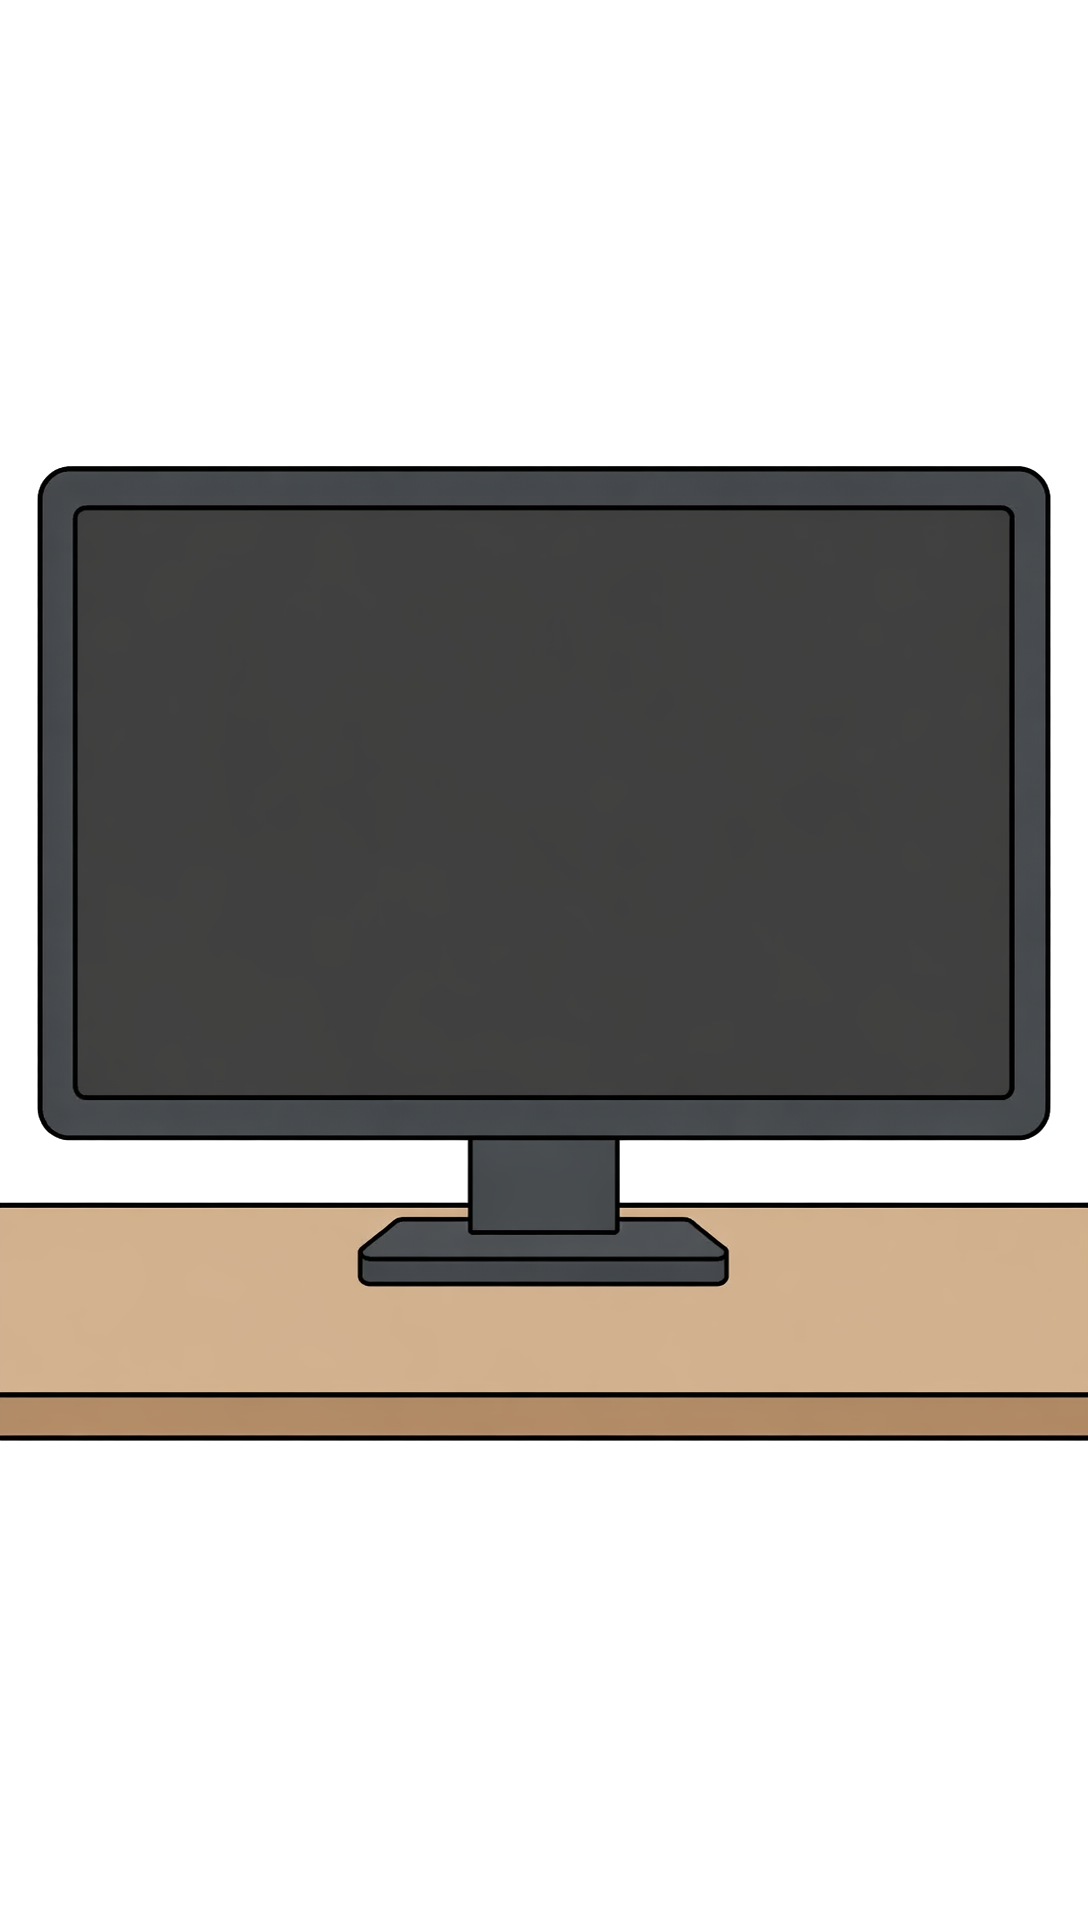
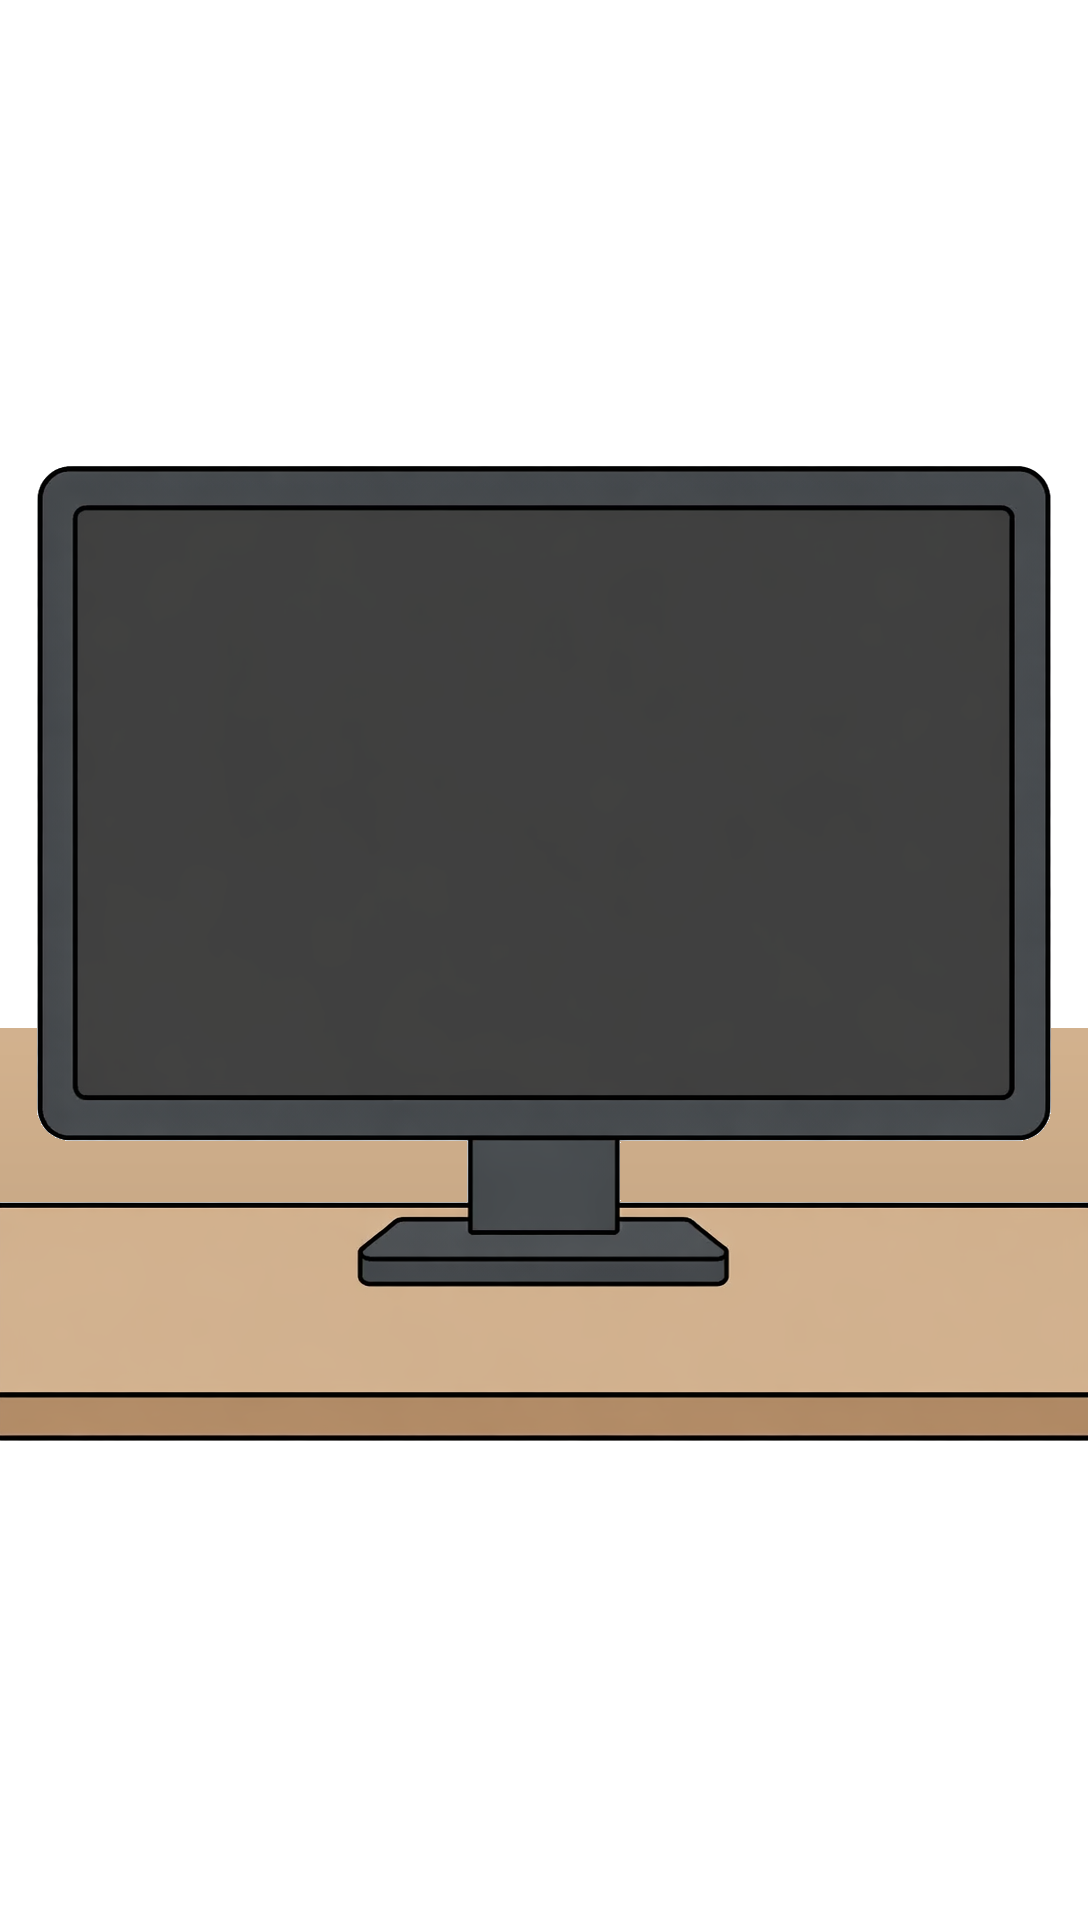
fix(hud+image): 4个主游戏页问题修复
2. 认可度条进度不变/只显示两段 — 改用独立子 Graphics 节点 HudBarFill
   每帧 clear+redraw 灰色蒙层（不污染静态底色），加三角游标标当前值
3. 倒计时白字太小 — fontSize 24→28，宽度 26%→30%，粗体纯白
4. 主标题没有展示 — levelLabel fontSize 28→30（紧凑模式 20），
   强制 active=true，颜色加深到 45,38,32

5. 桌子太窄键盘出界 — 新建 scripts/fix-bg-desk.py
   用 PIL 检测桌子色带 (RGB 210,177,141) 并向上延伸 180px
   加 26px 阴影渐变让桌面前沿过渡自然
   检测脚本只填原透明区域，保留显示器边框

Changed region(s): [[0.5625, 0.5312, 1.0, 0.625], [0.0, 0.5312, 0.4375, 0.625]]

diff --git a/assets/scripts/cocos/GameRunner.ts b/assets/scripts/cocos/GameRunner.ts
@@ -1891,19 +1891,27 @@ export class GameRunner extends Component {
       this.layoutHudLabel(this.levelLabel, 0, mainTitleY, Math.min(visSize.width * 0.72, 520), 36, 28);
       this.layoutSubtitle(visSize.width, screenTopY + Math.max(16, visSize.height * 0.02));
     }
-    if (this.levelLabel) { this.levelLabel.color = new Color(55, 48, 42, 255); this.levelLabel.isBold = true; }
+    if (this.levelLabel) {
+      this.levelLabel.color = new Color(45, 38, 32, 255);
+      this.levelLabel.isBold = true;
+      this.levelLabel.node.active = true;
+      this.levelLabel.fontSize = this.compactHeader ? 20 : 30;
+      this.levelLabel.lineHeight = (this.compactHeader ? 20 : 30) + 8;
+    }
     this.drawMonitorFrame(screenTopY, screenBottomY, screenWidthPx, visSize.width);
     // 认可度/分区信息已收敛到下方仪表盘面板；隐藏旧版浮动 Label
     if (this.approvalLabel) this.approvalLabel.node.active = false;
     if (this.zoneLabel) this.zoneLabel.node.active = false;
-    // 计时器移到标题栏右侧，字号比标题略小但足够清晰
+    // 计时器移到标题栏右侧，字号比标题略大加粗，亮白色
     if (this.timerLabel) {
       const timerX = Math.min(visSize.width * 0.38, screenWidthPx * 0.40);
       const timerY = this.compactHeader
         ? screenTopY + Math.max(13, Math.min(28, Math.max(13, headerGap * 0.5)))
         : screenTopY + Math.max(42, visSize.height * 0.05);
-      this.layoutHudLabel(this.timerLabel, timerX, timerY, screenWidthPx * 0.26, 40, 24);
+      this.layoutHudLabel(this.timerLabel, timerX, timerY, screenWidthPx * 0.30, 44, 28);
       this.timerLabel.node.active = true;
+      this.timerLabel.color = new Color(255, 252, 240, 255);
+      this.timerLabel.isBold = true;
     }
 
     // Belt（传送带卡槽）放在标题和状态行之间，卡牌始终限制在显示器内。
@@ -2020,6 +2028,12 @@ export class GameRunner extends Component {
     this.subtitleNode.active = this.uiState === 'playing';
   }
 
+  /** 仪表盘专用动态覆盖图层（每帧重绘，状态层不动底图） */
+  private hudBarFillNode: Node | null = null;
+  private hudScaleMarkNode: Node | null = null;
+  /** 文字动态覆盖层（每帧重绘：值、分区、事件） */
+  private hudTextLayer: Node | null = null;
+
   /** 统一仪表盘面板：认可度值 + 分区 + 四段色条 + 事件日志，单一圆角面板。 */
   private layoutLowerHud(viewWidth: number, viewHeight: number): void {
     if (!this.lowerHudNode) {
@@ -2028,14 +2042,32 @@ export class GameRunner extends Component {
       node.parent = this.node;
       node.addComponent(UITransform);
       node.addComponent(Graphics);
-      const value = this.makeHudLabel(node, 'ApprovalValue', '认可度 43', 26, new Color(38, 34, 30, 255));
+
+      // 静态层：面板纸底 + 四段色条
+      const value = this.makeHudLabel(node, 'ApprovalValue', '', 28, new Color(38, 34, 30, 255));
       value.isBold = true;
-      const zone = this.makeHudLabel(node, 'Zone', '危险!', 20, new Color(220, 60, 60, 255));
+      const zone = this.makeHudLabel(node, 'Zone', '', 22, new Color(220, 60, 60, 255));
       zone.isBold = true;
       const evt = this.makeHudLabel(node, 'Event', '', 15, new Color(72, 62, 54, 255));
       evt.overflow = Label.Overflow.CLAMP;
       this.makeHudLabel(node, 'Scale', '猎杀          良好          勉强          危险', 12, new Color(110, 100, 90, 255));
       this.lowerHudNode = node;
+
+      // 动态层：单独的 Graphics 子节点，每帧 clear+redraw，不会污染静态底图
+      const fill = new Node('HudBarFill');
+      fill.layer = 1 << 25;
+      fill.parent = node;
+      fill.addComponent(UITransform);
+      fill.addComponent(Graphics);
+      this.hudBarFillNode = fill;
+
+      // 刻度游标：当前值小三角
+      const mark = new Node('HudScaleMark');
+      mark.layer = 1 << 25;
+      mark.parent = node;
+      mark.addComponent(UITransform);
+      mark.addComponent(Graphics);
+      this.hudScaleMarkNode = mark;
     }
 
     const btnY = this.propButtons?.position.y ?? -viewHeight / 2 + 150;
@@ -2095,6 +2127,16 @@ export class GameRunner extends Component {
     this.placeHudLabel(node, 'Scale', 0, barCY - barH / 2 - 12, barW, 20);
     this.placeHudLabel(node, 'Event', 0, -panelH / 2 + padBot + eventH / 2, panelW - 28, eventH);
 
+    // 动态覆盖层：与面板同坐标系，铺满整面板
+    if (this.hudBarFillNode) {
+      this.hudBarFillNode.getComponent(UITransform)!.setContentSize(panelW, panelH);
+      this.hudBarFillNode.setPosition(0, 0, 0);
+    }
+    if (this.hudScaleMarkNode) {
+      this.hudScaleMarkNode.getComponent(UITransform)!.setContentSize(panelW, panelH);
+      this.hudScaleMarkNode.setPosition(0, 0, 0);
+    }
+
     node.active = this.uiState === 'playing';
   }
 
@@ -2134,18 +2176,33 @@ export class GameRunner extends Component {
       label.color = zoneColor[zone] ?? new Color(45, 40, 35);
     }
 
-    // 动态覆盖进度条：approved 部分透明看到底色，未到部分蒙半透明灰色
-    const g = this.lowerHudNode.getComponent(Graphics);
-    if (!g || this.hudBarW <= 0) return;
+    // 动态覆盖图层：每帧 clear 后重绘，不会污染静态四段底色
+    if (!this.hudBarFillNode || this.hudBarW <= 0) return;
+    const fillG = this.hudBarFillNode.getComponent(Graphics);
+    if (!fillG) return;
     const bw = this.hudBarW;
     const bh = this.hudBarH;
     const bcy = this.hudBarCY;
     const pct = Math.max(0, Math.min(1, approval / 100));
-    const fillEnd = -bw / 2 + bw * pct;
-    // 蒙住右侧未覆盖区域
-    g.fillColor = new Color(50, 46, 40, 160);
-    g.rect(fillEnd, bcy - bh / 2 + 4, bw * (1 - pct) - 4, bh - 8);
-    g.fill();
+    fillG.clear();
+    // 已达标部分：蒙半透明黑色 = 让四段分区色变暗，提示"未达"
+    fillG.fillColor = new Color(40, 36, 32, 175);
+    fillG.rect(-bw / 2 + bw * pct, bcy - bh / 2 + 4, bw * (1 - pct) - 4, bh - 8);
+    fillG.fill();
+    // 当前值小三角游标
+    if (this.hudScaleMarkNode) {
+      const markG = this.hudScaleMarkNode.getComponent(Graphics);
+      if (markG) {
+        markG.clear();
+        const x = -bw / 2 + bw * pct;
+        markG.fillColor = new Color(30, 26, 22, 255);
+        markG.moveTo(x, bcy + bh / 2 + 2);
+        markG.lineTo(x - 7, bcy + bh / 2 + 14);
+        markG.lineTo(x + 7, bcy + bh / 2 + 14);
+        markG.close();
+        markG.fill();
+      }
+    }
   }
 
   /** 把 Belt 下的 6 个卡槽横向等距重新排布到指定区域内（居中）。 */

diff --git a/scripts/fix-bg-desk.py b/scripts/fix-bg-desk.py
@@ -1,0 +1,76 @@
+"""
+修复 bg-office.png：把桌子向上延伸，让 AI 同事角色坐在桌面上。
+- 检测当前桌子带的 Y 范围与颜色
+- 把桌子色带向上延伸 ~180px，并加一条暗色桌面前沿让过渡自然
+- 保持透明 alpha 不变
+"""
+from PIL import Image
+import sys
+
+SRC = "assets/resources/art/bg/bg-office.png"
+DST = "assets/resources/art/bg/bg-office.png"
+EXTEND_PX = 180  # 向上延伸像素数
+
+
+def main() -> None:
+    im = Image.open(SRC).convert("RGBA")
+    pixels = im.load()
+    w, h = im.size
+    # 找到桌子带的范围（采样 x = 200 远离中心避免命中显示器/桌面上的图标）
+    sample_x = 200
+    desk_top = None
+    desk_bottom = None
+    for y in range(h):
+        r, g, b, a = pixels[sample_x, y]
+        if a > 200 and 180 < r < 230 and 150 < g < 200 and 120 < b < 170:
+            if desk_top is None:
+                desk_top = y
+            desk_bottom = y
+    if desk_top is None:
+        print("ERROR: cannot find desk band", file=sys.stderr)
+        sys.exit(1)
+    print(f"detected desk: y={desk_top}..{desk_bottom} "
+          f"(h={desk_bottom - desk_top + 1}px)")
+
+    # 桌子主色（取 desk_top+5 行 sample_x 列）
+    main_r, main_g, main_b, _ = pixels[sample_x, desk_top + 5]
+    print(f"desk main color: ({main_r}, {main_g}, {main_b})")
+
+    # 桌子前沿色（更暗的桌沿）：取 desk_bottom 行（更深的棕）
+    front_r, front_g, front_b, _ = pixels[sample_x, desk_bottom - 3]
+    print(f"desk front color: ({front_r}, {front_g}, {front_b})")
+
+    new_top = max(0, desk_top - EXTEND_PX)
+    print(f"extending desk upward: {desk_top} -> {new_top} (+{desk_top - new_top}px)")
+
+    # 逐行填色：从 new_top 到 desk_top-1
+    # 用 desk_top+5 的主色填充；在 new_top..new_top+24 上用略深色作为桌面前沿阴影
+    shadow_h = 26
+    for y in range(new_top, desk_top):
+        # 阴影区
+        if y - new_top < shadow_h:
+            t = (y - new_top) / shadow_h  # 0..1
+            r = int(front_r * (1 - t) + main_r * t)
+            g = int(front_g * (1 - t) + main_g * t)
+            b = int(front_b * (1 - t) + main_b * t)
+        else:
+            # 上方主体用 main color，向 desk_top 略微变深模拟厚度
+            depth = (y - (new_top + shadow_h)) / max(1, desk_top - (new_top + shadow_h))
+            r = int(main_r * (1 - depth * 0.04))
+            g = int(main_g * (1 - depth * 0.04))
+            b = int(main_b * (1 - depth * 0.04))
+        # 只填充原来是透明的区域（保留显示器/其他元素）
+        for x in range(w):
+            pr, pg, pb, pa = pixels[x, y]
+            if pa < 50:  # 原透明 → 填桌子色
+                pixels[x, y] = (r, g, b, 255)
+            elif pa > 200 and 50 < pr < 90 and 50 < pg < 90 and 50 < pb < 95:
+                # 原来就是显示器边框灰色 → 不动
+                pass
+
+    im.save(DST, "PNG", optimize=True)
+    print(f"saved {DST} ({w}x{h})")
+
+
+if __name__ == "__main__":
+    main()